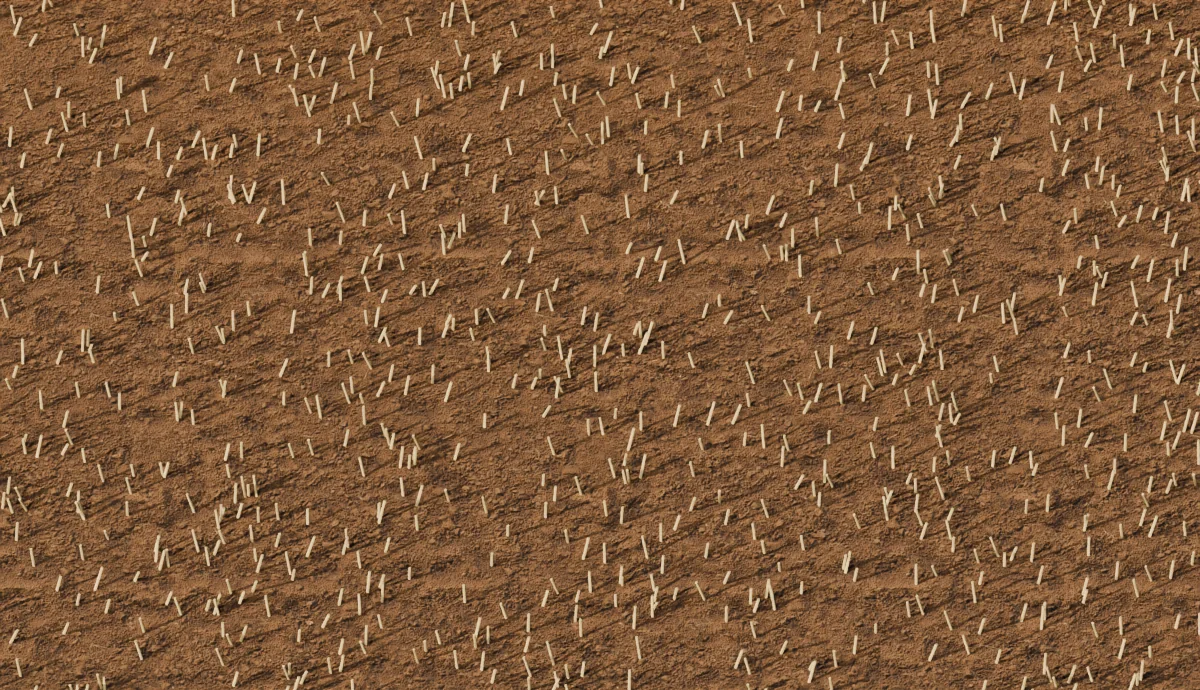
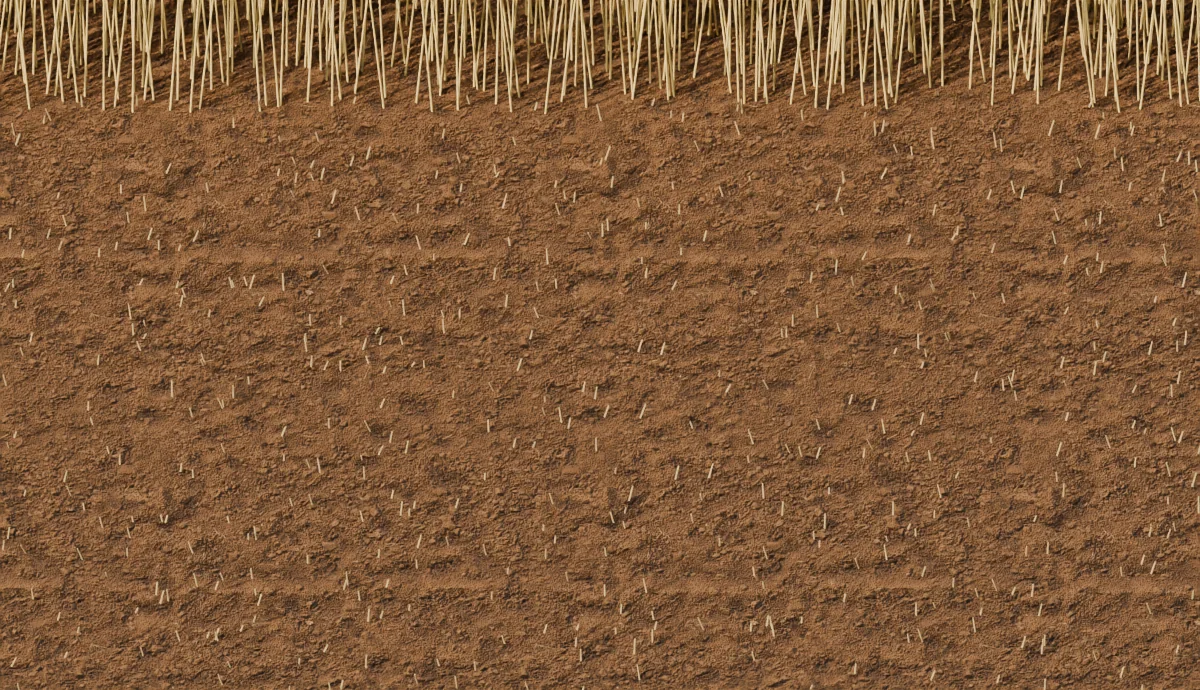
exti_jobs: updated minigame renders (WIP, final pass rendering)
Claude-Session: https://claude.ai/code/session_012rXsPwiZPt1re9TnLD3ayd

diff --git a/resources/[standalone]/exti_jobs/html/jmeta.js b/resources/[standalone]/exti_jobs/html/jmeta.js
@@ -1,2 +1,2 @@
 /* generated by the render studio (j_export.py): sprite anchors and scene points, in scene pixels */
-window.JG_META = {"belt_bg":{"ppm":666.6666666666666,"el":90,"cx":0.0,"cy":0.0,"cz":0.0,"y":311.7,"chute":[600.0,585.0],"x0":-33.3,"x1":1233.3},"bird":{"w":181,"h":264,"ax":133.4,"ay":5.0},"bobber":{"w":51,"h":80,"ax":25.3,"ay":46.7},"box_bg":{"ppm":1200.0,"el":90,"cx":0.0,"cy":0.0,"cz":0.0,"carton":[744.0,345.0],"carton_wh":[480.0,360.0],"bin":[204.0,321.0]},"box_fill":{"w":1200,"h":690,"ax":0,"ay":0},"box_shut":{"w":1200,"h":690,"ax":0,"ay":0},"box_tape":{"w":1200,"h":690,"ax":0,"ay":0},"bunch":{"w":72,"h":109,"ax":38.0,"ay":12.0},"cast":{"w":156,"h":81,"ax":78.0,"ay":40.5},"clippers":{"w":508,"h":100,"ax":499.7,"ay":58.9},"clump":{"w":144,"h":343,"ax":64.3,"ay":311.8},"crucible":{"w":542,"h":165,"ax":459.4,"ay":82.5},"field_bg":{"ppm":400.0,"el":48,"cx":0,"cy":0,"cz":0.0,"spots":[[160.0,122.1],[460.0,122.1],[760.0,122.1],[1040.0,122.1],[160.0,315.3],[460.0,315.3],[760.0,315.3],[1040.0,315.3],[160.0,508.5],[460.0,508.5],[760.0,508.5],[1040.0,508.5]]},"fillet_bg":{"ppm":1200.0,"el":90,"cx":0.0,"cy":0.0,"cz":0.0,"board":[540.0,345.0],"bowl":[1032.0,201.0]},"fillet_top":{"w":435,"h":151,"ax":217.5,"ay":75.5},"fish_jump":{"w":247,"h":66,"ax":112.8,"ay":33.7},"fish_top":{"w":845,"h":171,"ax":385.0,"ay":85.7},"grape_lay":{"w":215,"h":314,"ax":107.6,"ay":157.0},"hen":{"w":182,"h":173,"ax":83.6,"ay":134.6},"ice_cover":{"w":1200,"h":690,"ax":0,"ay":0},"ice_scoop":{"w":294,"h":170,"ax":211.5,"ay":85.0},"icepack_bg":{"ppm":1200.0,"el":90,"cx":0.0,"cy":0.0,"cz":0.0,"tray":[696.0,345.0],"tray_wh":[312.0,456.0],"bin":[192.0,345.0],"roll":[1080.0,81.0]},"knife":{"w":63,"h":44,"ax":10.0,"ay":22.0},"line_bg":{"ppm":500.0,"el":0,"cx":0,"cy":0,"cz":0.66,"rail":55.0,"cut":[600.0,325.0],"bin":[1050.0,575.0]},"loaf_burnt":{"w":268,"h":263,"ax":134.0,"ay":200.4},"loaf_dough":{"w":268,"h":263,"ax":134.0,"ay":200.4},"loaf_golden":{"w":268,"h":263,"ax":134.0,"ay":200.4},"loom_bg":{"ppm":1200.0,"el":90,"cx":0.0,"cy":0.0,"cz":0.0,"cloth_top":81.0,"cloth_bot":633.0,"cloth_x":[174.0,1026.0],"box_l":[96.0,321.0],"box_r":[1104.0,321.0]},"loom_cloth":{"w":1200,"h":690,"ax":0,"ay":0},"mill_bg":{"ppm":750.0,"el":90,"cx":0.0,"cy":0.0,"cz":0.0,"center":[600.0,345.0],"spout":[600.0,150.0],"sack":[1050.0,532.5]},"mine_bg":{"ppm":500.0,"el":0,"cx":0,"cy":0,"cz":0.65,"area":[[125.0,-55.0],[1075.0,720.0]]},"molten":{"w":156,"h":81,"ax":78.0,"ay":40.5},"nodule0":{"w":133,"h":143,"ax":67.2,"ay":72.2},"nodule1":{"w":146,"h":138,"ax":73.9,"ay":69.4},"nodule2":{"w":117,"h":115,"ax":59.4,"ay":58.0},"ore_a":{"w":109,"h":96,"ax":55.2,"ay":46.9},"ore_b":{"w":110,"h":95,"ax":55.7,"ay":46.5},"ore_c":{"w":114,"h":88,"ax":57.3,"ay":43.4},"oven_bg":{"ppm":600.0,"el":14,"cx":0,"cy":0.3,"cz":0.3,"spots":[[420.0,483.4],[630.0,483.4],[828.0,483.4]],"mouth":[600.0,388.5]},"pack_bg":{"ppm":1000.0,"el":90,"cx":0.0,"cy":0.0,"cz":0.0,"board":[300.0,325.0],"tray":[900.0,345.0],"tray_wh":[270.0,400.0],"slots":[[825.0,265.0],[900.0,265.0],[975.0,265.0],[825.0,425.0],[900.0,425.0],[975.0,425.0]]},"peel":{"w":216,"h":232,"ax":108.0,"ay":31.3},"pen_bg":{"ppm":375.0,"el":55,"cx":0,"cy":0.1,"cz":0.0,"area":[[56.2,145.3],[1143.8,775.1]]},"pickaxe":{"w":232,"h":460,"ax":115.9,"ay":455.0},"piece":{"w":211,"h":146,"ax":90.3,"ay":72.8},"pier_bg":{"ppm":400.0,"el":38,"cx":0,"cy":0.6,"cz":0.0,"bob":[[360.0,172.6],[760.0,98.7],[960.0,234.2],[520.0,49.5]],"tip":[240.0,258.3]},"rack_bg":{"ppm":1000.0,"el":90,"cx":0.0,"cy":0.0,"cz":0.0,"spots":[[210.0,225.0],[480.0,225.0],[750.0,225.0],[210.0,465.0],[480.0,465.0],[750.0,465.0]],"heater":[1070.0,345.0]},"raisin_lay":{"w":184,"h":265,"ax":91.8,"ay":132.4},"reed":{"w":820,"h":61,"ax":410.0,"ay":25.0},"rod":{"w":300,"h":637,"ax":292.8,"ay":7.1},"runner":{"w":615,"h":615,"ax":307.5,"ay":307.5},"scoop":{"w":316,"h":180,"ax":229.9,"ay":90.0},"sew_bg":{"ppm":1500.0,"el":90,"cx":0.0,"cy":0.0,"cz":0.0,"needle":[600.0,345.0]},"sew_head":{"w":1200,"h":690,"ax":0,"ay":0},"sheaf":{"w":372,"h":83,"ax":164.1,"ay":52.0},"shear_bg":{"ppm":666.6666666666666,"el":90,"cx":0.0,"cy":0.0,"cz":0.0,"sheep":[600.0,345.0]},"sheep_shorn":{"w":775,"h":381,"ax":299.3,"ay":190.4},"sheep_wool":{"w":825,"h":569,"ax":349.0,"ay":285.2,"mask":{"c":16,"cols":52,"rows":36,"bits":"000000000000000000000000000000000000000000000000000000000000000000000000000000000000000000000000000000000000000000000000001000000000000000000000000000000000000000000000000111111111111100000000000000000000000000000000000000111111111111111000000000000000000000000000000000000111111111111111110000000000000000000000000000000000011111111111111111100000000000000000000000000000001111111111111111111111100000000000000000000000000001111111111111111111111111100000000000000000000000001111111111111111111111111111000000000000000000000011111111111111111111111111111110000000000000000000011111111111111111111111111111111110110000000000000011111111111111111111111111111111111111000000000000011111111111111111111111111111111111111000000000000001111111111111111111111111111111111111111111000000000111111111111111111111111111111111111111111111000000111111111111111111111111111111111111111111111110000001111111111111111111111111111111111111111111111000000111111111111111111111111111111111111111111111100000111111111111111111111111111111111111111111111110000001111111111111111111111111111111111111111111100000000111111111111111111111111111111111111111111000000000011111111111111111111111111111111111111000000000000000111111111111111111111111111111111111110000000000000011111111111111111111111111111111111100000000000000000011111111111111111111111111111111000000000000000000001111111111111111111111111111111100000000000000000000011111111111111111111111111111100000000000000000000000111111111111111111111111111100000000000000000000000001111111111111111111111000000000000000000000000000000000000011111111111111100000000000000000000000000000000000000111111111111100000000000000000000000000000000000000001111111111000000000000000000000000000000000000000000000000000000000000000000000000000000000000000000000000000000000000000000000000000000000000000000000000000000000000000000000000000000000000"}},"shuttle":{"w":175,"h":59,"ax":87.6,"ay":29.6},"sickle":{"w":207,"h":190,"ax":195.3,"ay":165.1},"slag_a":{"w":125,"h":102,"ax":61.8,"ay":50.2},"slag_b":{"w":126,"h":104,"ax":62.4,"ay":51.2},"smelt_bg":{"ppm":750.0,"el":90,"cx":0.0,"cy":0.0,"cz":0.0,"molds":[[240.0,345.0],[480.0,345.0],[720.0,345.0],[960.0,345.0]],"mold_wh":[150.0,75.0]},"vine_bg":{"ppm":375.0,"el":6,"cx":0,"cy":0,"cz":0.98,"hang":[[150.0,362.7],[318.8,362.7],[487.5,362.7],[712.5,362.7],[881.2,362.7],[1050.0,362.7]],"crate":[600.0,618.2]}};
+window.JG_META = {"belt_bg":{"ppm":666.6666666666666,"el":90,"cx":0.0,"cy":0.0,"cz":0.0,"y":311.7,"chute":[600.0,585.0],"x0":-33.3,"x1":1233.3},"bird":{"w":181,"h":264,"ax":133.4,"ay":5.0},"bobber":{"w":51,"h":80,"ax":25.3,"ay":46.7},"box_bg":{"ppm":1200.0,"el":90,"cx":0.0,"cy":0.0,"cz":0.0,"carton":[744.0,345.0],"carton_wh":[480.0,360.0],"bin":[204.0,321.0]},"box_fill":{"w":1200,"h":690,"ax":0,"ay":0},"box_shut":{"w":1200,"h":690,"ax":0,"ay":0},"box_tape":{"w":1200,"h":690,"ax":0,"ay":0},"bunch":{"w":72,"h":109,"ax":38.0,"ay":12.0},"cast":{"w":156,"h":81,"ax":78.0,"ay":40.5},"clippers":{"w":508,"h":100,"ax":499.7,"ay":58.9},"clump":{"w":144,"h":343,"ax":64.3,"ay":311.8},"crucible":{"w":542,"h":165,"ax":459.4,"ay":82.5},"field_bg":{"ppm":400.0,"el":48,"cx":0,"cy":0,"cz":0.0,"spots":[[160.0,241.0],[460.0,241.0],[760.0,241.0],[1040.0,241.0],[160.0,419.3],[460.0,419.3],[760.0,419.3],[1040.0,419.3],[160.0,597.7],[460.0,597.7],[760.0,597.7],[1040.0,597.7]]},"fillet_bg":{"ppm":1200.0,"el":90,"cx":0.0,"cy":0.0,"cz":0.0,"board":[540.0,345.0],"bowl":[1032.0,201.0]},"fillet_top":{"w":435,"h":151,"ax":217.5,"ay":75.5},"fish_jump":{"w":247,"h":66,"ax":112.8,"ay":33.7},"fish_top":{"w":845,"h":171,"ax":385.0,"ay":85.7},"grape_lay":{"w":215,"h":314,"ax":107.6,"ay":157.0},"hen":{"w":182,"h":173,"ax":83.6,"ay":134.6},"ice_cover":{"w":1200,"h":690,"ax":0,"ay":0},"ice_scoop":{"w":294,"h":170,"ax":211.5,"ay":85.0},"icepack_bg":{"ppm":1200.0,"el":90,"cx":0.0,"cy":0.0,"cz":0.0,"tray":[696.0,345.0],"tray_wh":[312.0,456.0],"bin":[192.0,345.0],"roll":[1080.0,81.0]},"knife":{"w":63,"h":44,"ax":10.0,"ay":22.0},"line_bg":{"ppm":500.0,"el":0,"cx":0,"cy":0,"cz":0.66,"rail":55.0,"cut":[600.0,325.0],"bin":[1050.0,575.0]},"loaf_burnt":{"w":128,"h":126,"ax":64.0,"ay":94.1},"loaf_dough":{"w":128,"h":126,"ax":64.0,"ay":94.1},"loaf_golden":{"w":128,"h":126,"ax":64.0,"ay":94.1},"loom_bg":{"ppm":1200.0,"el":90,"cx":0.0,"cy":0.0,"cz":0.0,"cloth_top":81.0,"cloth_bot":633.0,"cloth_x":[174.0,1026.0],"box_l":[96.0,321.0],"box_r":[1104.0,321.0]},"loom_cloth":{"w":1200,"h":690,"ax":0,"ay":0},"mill_bg":{"ppm":750.0,"el":90,"cx":0.0,"cy":0.0,"cz":0.0,"center":[600.0,345.0],"spout":[600.0,195.0],"sack":[1050.0,532.5]},"mine_bg":{"ppm":500.0,"el":0,"cx":0,"cy":0,"cz":0.65,"area":[[125.0,-55.0],[1075.0,720.0]]},"molten":{"w":156,"h":81,"ax":78.0,"ay":40.5},"nodule0":{"w":133,"h":143,"ax":67.2,"ay":72.2},"nodule1":{"w":146,"h":138,"ax":73.9,"ay":69.4},"nodule2":{"w":117,"h":115,"ax":59.4,"ay":58.0},"ore_a":{"w":109,"h":96,"ax":55.2,"ay":46.9},"ore_b":{"w":110,"h":95,"ax":55.7,"ay":46.5},"ore_c":{"w":114,"h":88,"ax":57.3,"ay":43.4},"oven_bg":{"ppm":600.0,"el":14,"cx":0,"cy":0.3,"cz":0.3,"spots":[[420.0,483.4],[630.0,483.4],[828.0,483.4]],"mouth":[600.0,388.5]},"pack_bg":{"ppm":1000.0,"el":90,"cx":0.0,"cy":0.0,"cz":0.0,"board":[300.0,325.0],"tray":[900.0,345.0],"tray_wh":[270.0,400.0],"slots":[[825.0,265.0],[900.0,265.0],[975.0,265.0],[825.0,425.0],[900.0,425.0],[975.0,425.0]]},"peel":{"w":216,"h":232,"ax":108.0,"ay":31.3},"pen_bg":{"ppm":375.0,"el":55,"cx":0,"cy":0.1,"cz":0.0,"area":[[56.2,145.3],[1143.8,775.1]]},"pickaxe":{"w":232,"h":460,"ax":115.9,"ay":455.0},"piece":{"w":211,"h":146,"ax":90.3,"ay":72.8},"pier_bg":{"ppm":400.0,"el":38,"cx":0,"cy":0.6,"cz":0.0,"bob":[[360.0,172.6],[760.0,98.7],[960.0,234.2],[520.0,49.5]],"tip":[240.0,258.3]},"rack_bg":{"ppm":1000.0,"el":90,"cx":0.0,"cy":0.0,"cz":0.0,"spots":[[210.0,225.0],[480.0,225.0],[750.0,225.0],[210.0,465.0],[480.0,465.0],[750.0,465.0]],"heater":[1070.0,345.0]},"raisin_lay":{"w":184,"h":265,"ax":91.8,"ay":132.4},"reed":{"w":820,"h":61,"ax":410.0,"ay":25.0},"rod":{"w":300,"h":637,"ax":292.8,"ay":7.1},"runner":{"w":615,"h":615,"ax":307.5,"ay":307.5},"scoop":{"w":316,"h":180,"ax":229.9,"ay":90.0},"sew_bg":{"ppm":1500.0,"el":90,"cx":0.0,"cy":0.0,"cz":0.0,"needle":[600.0,345.0]},"sew_head":{"w":1200,"h":690,"ax":0,"ay":0},"sheaf":{"w":372,"h":83,"ax":164.1,"ay":52.0},"shear_bg":{"ppm":666.6666666666666,"el":90,"cx":0.0,"cy":0.0,"cz":0.0,"sheep":[600.0,345.0]},"sheep_shorn":{"w":775,"h":381,"ax":299.3,"ay":190.4},"sheep_wool":{"w":822,"h":563,"ax":346.4,"ay":279.8,"mask":{"c":16,"cols":52,"rows":36,"bits":"000000000000000000000000000000000000000000000000000000000000000000000000000000000000000000000000000000000000000000000000011100000000000000000000000000000000000000000000000011111110000000000000000000000000000000000000000000111111111100000000000000000000000000000000000000000111111111111110000000000000000000000000000000000000111111111111111111100000000000000000000000000000000111111111111111111111100000000000000000000000000011111111111111111111111111100000000000000000000000011111111111111111111111111111000000000000000000000111111111111111111111111111111111000000000000000000111111111111111111111111111111111111110000000000000111111111111111111111111111111111111110000000000000011111111111111111111111111111111111111000000000000011111111111111111111111111111111111111111111100000001111111111111111111111111111111111111111111111000000111111111111111111111111111111111111111111111110000011111111111111111111111111111111111111111111111000000111111111111111111111111111111111111111111111100000011111111111111111111111111111111111111111111100000001111111111111111111111111111111111111111111100000000111111111111111111111111111111111111100000000000000001111111111111111111111111111111111111000000000000000111111111111111111111111111111111111110000000000000001111111111111111111111111111111111000000000000000000011111111111111111111111111111111000000000000000000001111111111111111111111111111111100000000000000000000011111111111111111111111111111100000000000000000000000111111111111111111111111111000000000000000000000000000111111111111111111111000000000000000000000000000000000000011111111111111000000000000000000000000000000000000000111111111110000000000000000000000000000000000000000000111000000000000000000000000000000000000000000000000000000000000000000000000000000000000000000000000000000000000000000000000000000000000000000000000000000000000000000000000000000000000000000"}},"shuttle":{"w":175,"h":59,"ax":87.6,"ay":29.6},"sickle":{"w":207,"h":190,"ax":195.3,"ay":165.1},"slag_a":{"w":125,"h":102,"ax":61.8,"ay":50.2},"slag_b":{"w":126,"h":104,"ax":62.4,"ay":51.2},"smelt_bg":{"ppm":750.0,"el":90,"cx":0.0,"cy":0.0,"cz":0.0,"molds":[[240.0,345.0],[480.0,345.0],[720.0,345.0],[960.0,345.0]],"mold_wh":[150.0,75.0]},"vine_bg":{"ppm":375.0,"el":6,"cx":0,"cy":0,"cz":0.98,"hang":[[150.0,362.7],[318.8,362.7],[487.5,362.7],[712.5,362.7],[881.2,362.7],[1050.0,362.7]],"crate":[600.0,618.2]}};
